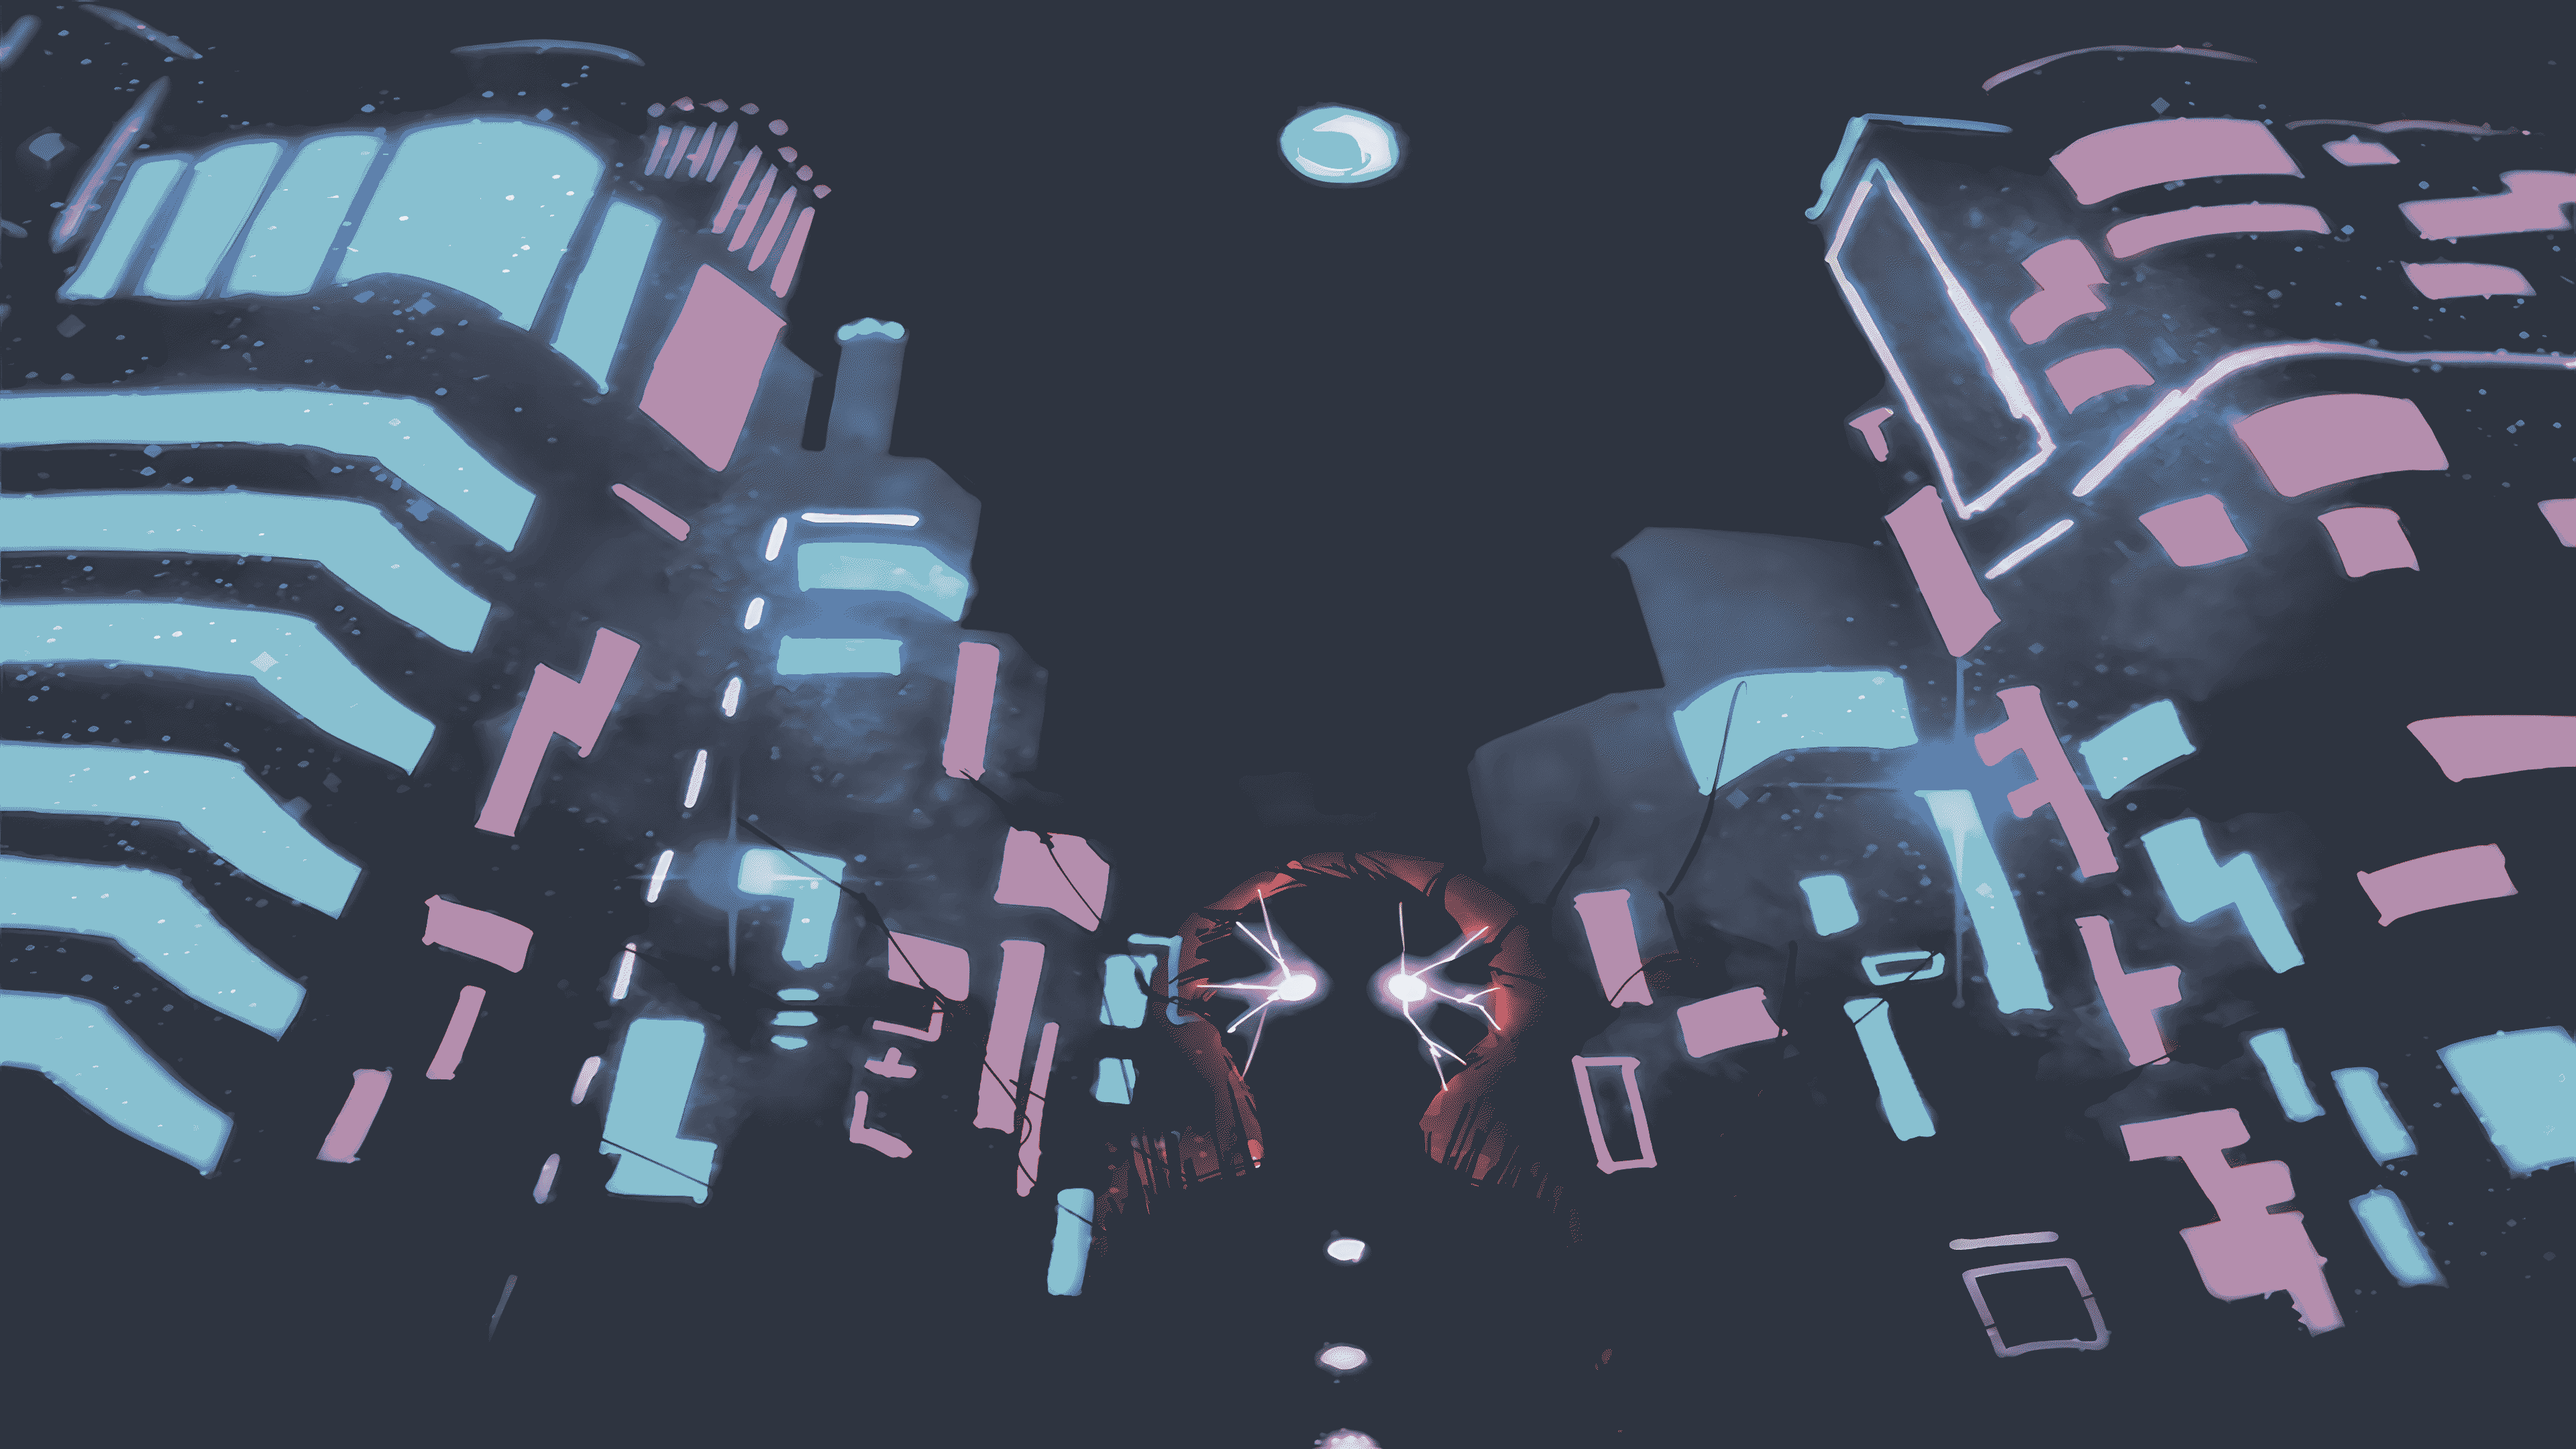
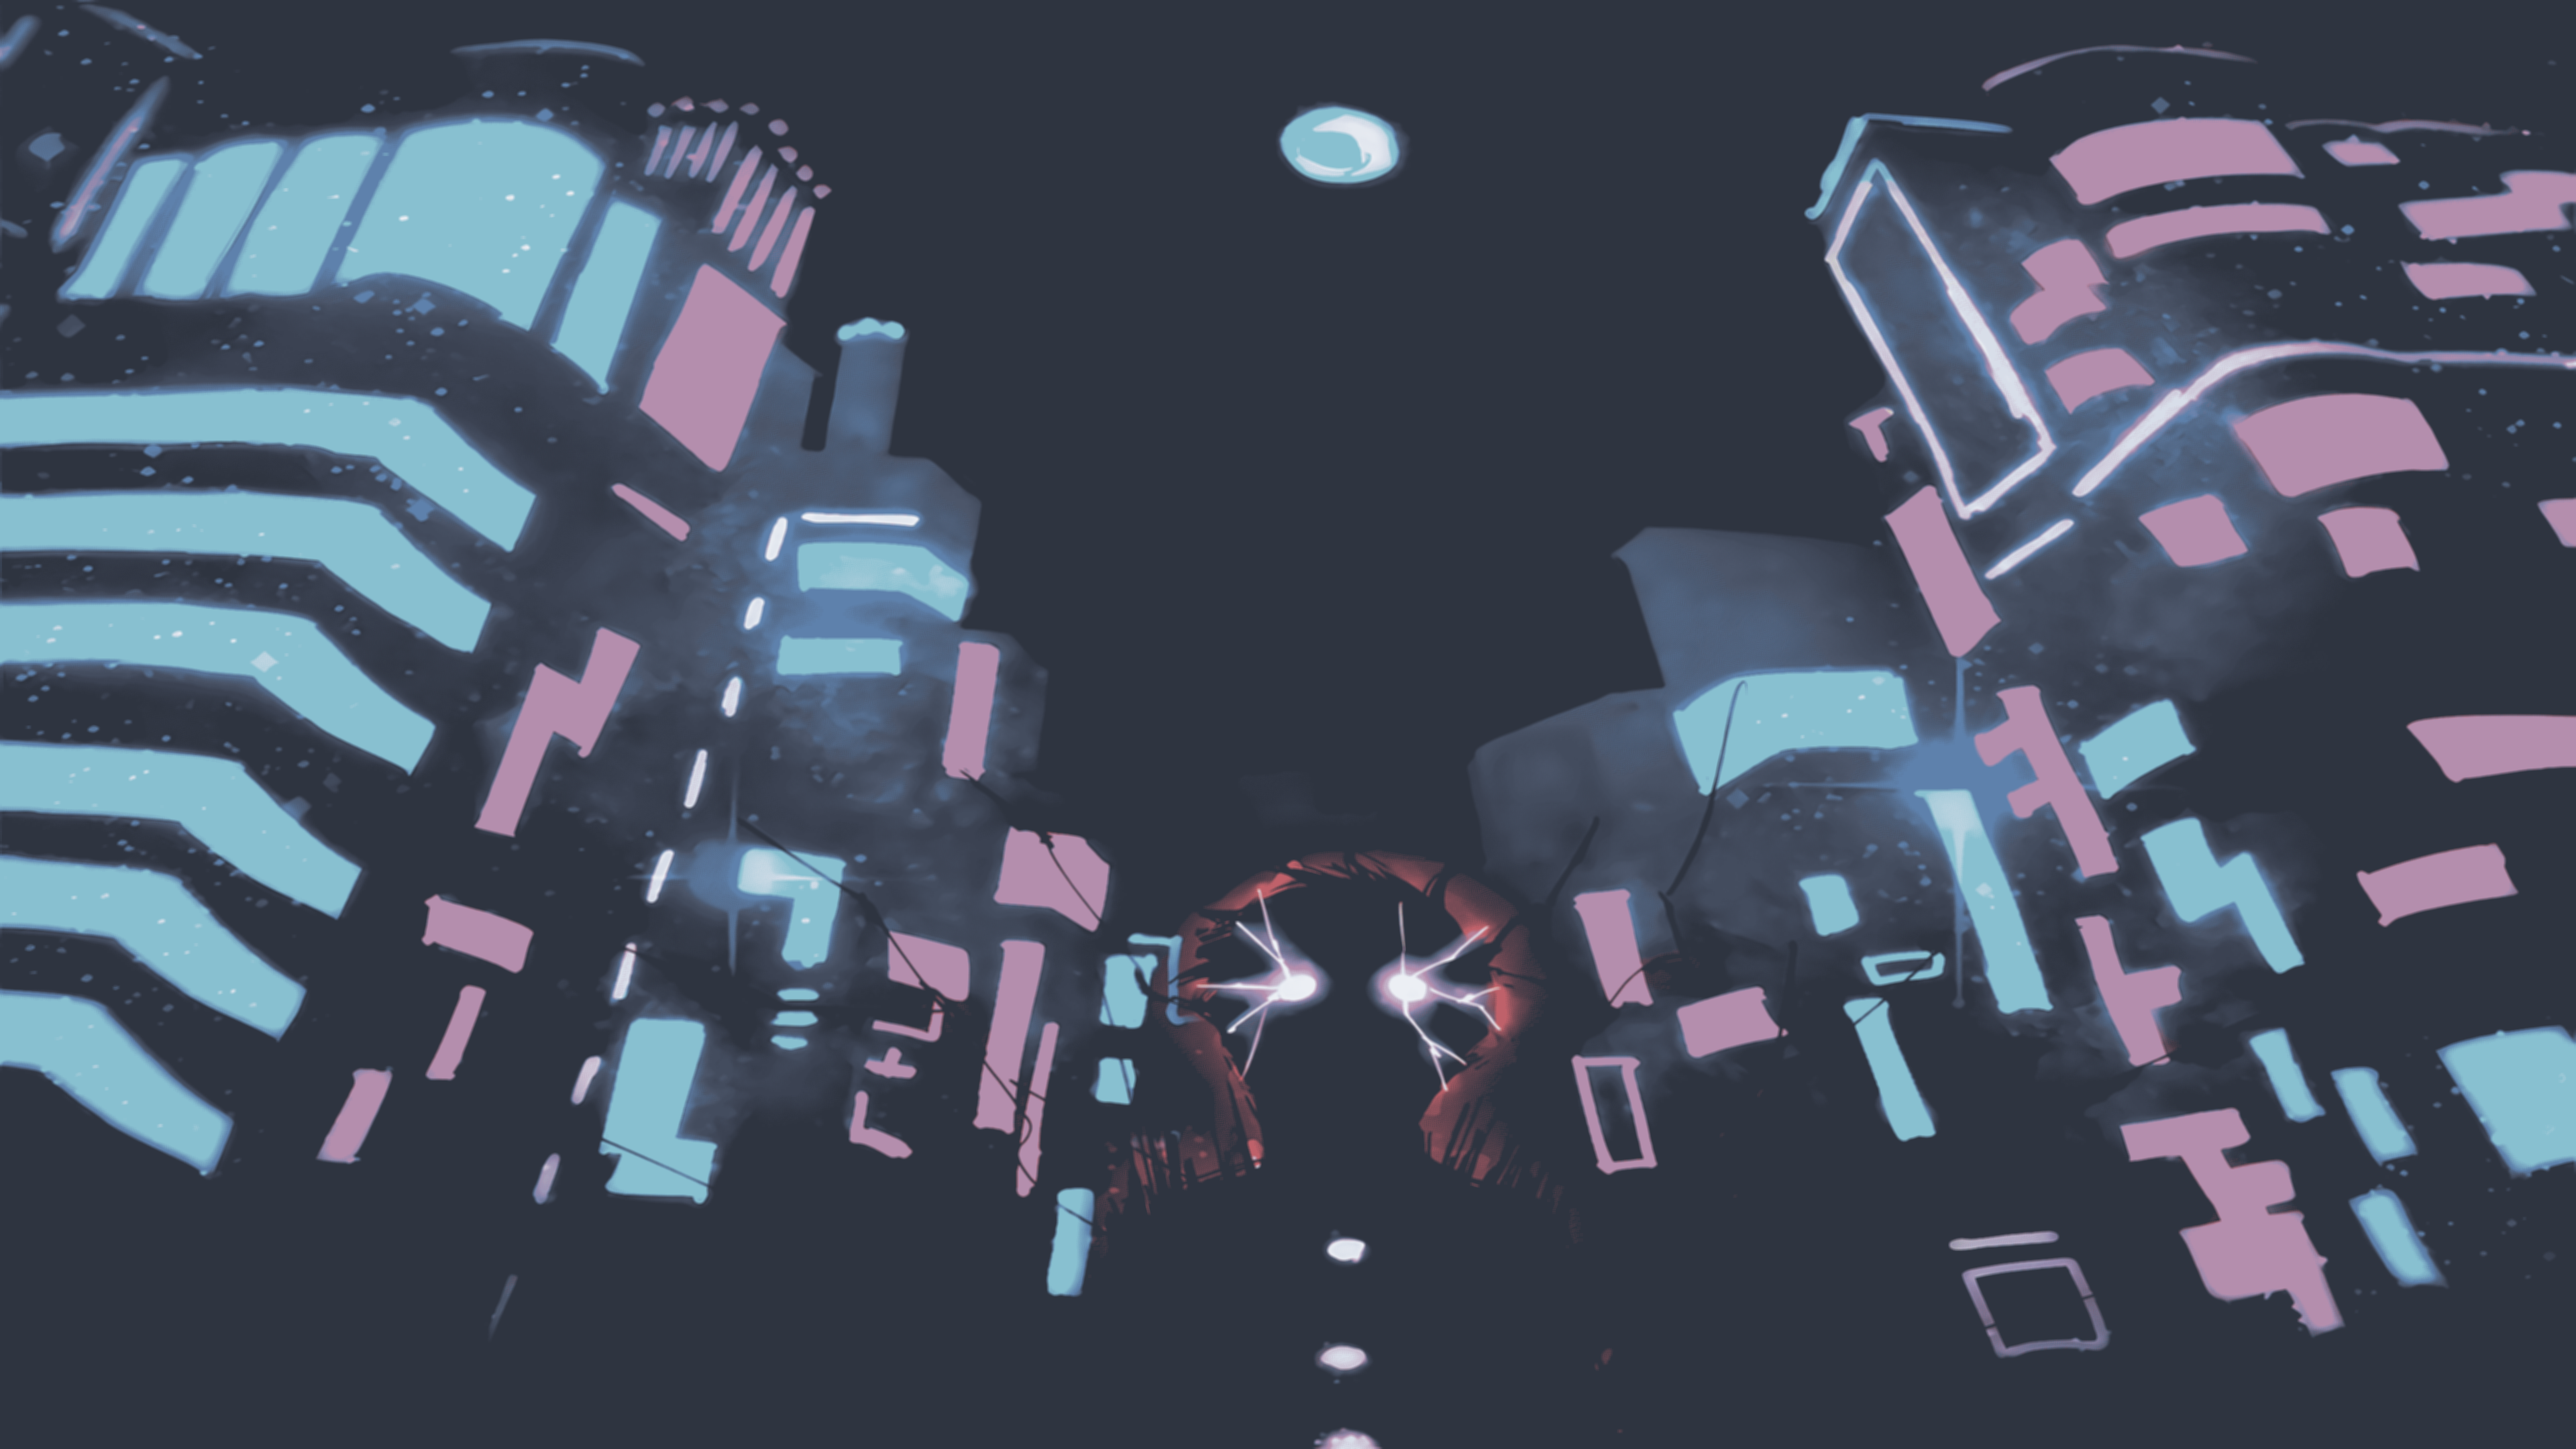
update nord wallpapers

diff --git a/wallpapers_dark/nordify.py b/wallpapers_dark/nordify.py
@@ -1,0 +1,35 @@
+from ImageGoNord import NordPaletteFile, GoNord
+
+# E.g. Replace pixel by pixel
+go_nord = GoNord()
+go_nord.enable_avg_algorithm()
+go_nord.reset_palette()
+go_nord.add_file_to_palette(NordPaletteFile.POLAR_NIGHT)
+go_nord.add_file_to_palette(NordPaletteFile.SNOW_STORM)
+image = go_nord.open_image("./dark_gundam_ibo_02.jpg")
+go_nord.convert_image(image, save_path='../wallpapers_nord/nord_gundam_barbatos.test.png')
+
+# # E.g. Avg algorithm and less colors
+#
+# image = go_nord.open_image("images/test.jpg")
+# go_nord.convert_image(image, save_path='images/test.avg.jpg')
+#
+# # E.g. Resized img no Avg algorithm and less colors
+# go_nord.disable_avg_algorithm()
+# go_nord.reset_palette()
+# go_nord.add_file_to_palette(NordPaletteFile.POLAR_NIGHT)
+# go_nord.add_file_to_palette(NordPaletteFile.SNOW_STORM)
+#
+# image = go_nord.open_image("images/test.jpg")
+# resized_img = go_nord.resize_image(image)
+# go_nord.convert_image(resized_img, save_path='images/test.resized.jpg')
+#
+# # E.g. Quantize
+#
+# image = go_nord.open_image("images/test.jpg")
+# go_nord.reset_palette()
+# go_nord.set_default_nord_palette()
+# quantize_image = go_nord.quantize_image(image, save_path='images/test.quantize.jpg')
+#
+# # To base64
+# go_nord.image_to_base64(quantize_image, 'jpeg')

diff --git a/custom_scripts/smooth_img.py b/custom_scripts/smooth_img.py
@@ -1,0 +1,18 @@
+#!/usr/bin/env python3
+
+import numpy as np
+import cv2 as cv
+ 
+fname = "nord_water_warrior.jpg"
+img = cv.imread(fname)
+assert img is not None, "file could not be read, check with os.path.exists()"
+ 
+kernel = np.ones((5,5),np.float32)/25
+dst = cv.filter2D(img,-1,kernel)
+cv.imwrite("smooth_" + fname, dst)
+#  
+# plt.subplot(121),plt.imshow(img),plt.title('Original')
+# plt.xticks([]), plt.yticks([])
+# plt.subplot(122),plt.imshow(dst),plt.title('Averaging')
+# plt.xticks([]), plt.yticks([])
+# plt.show()
